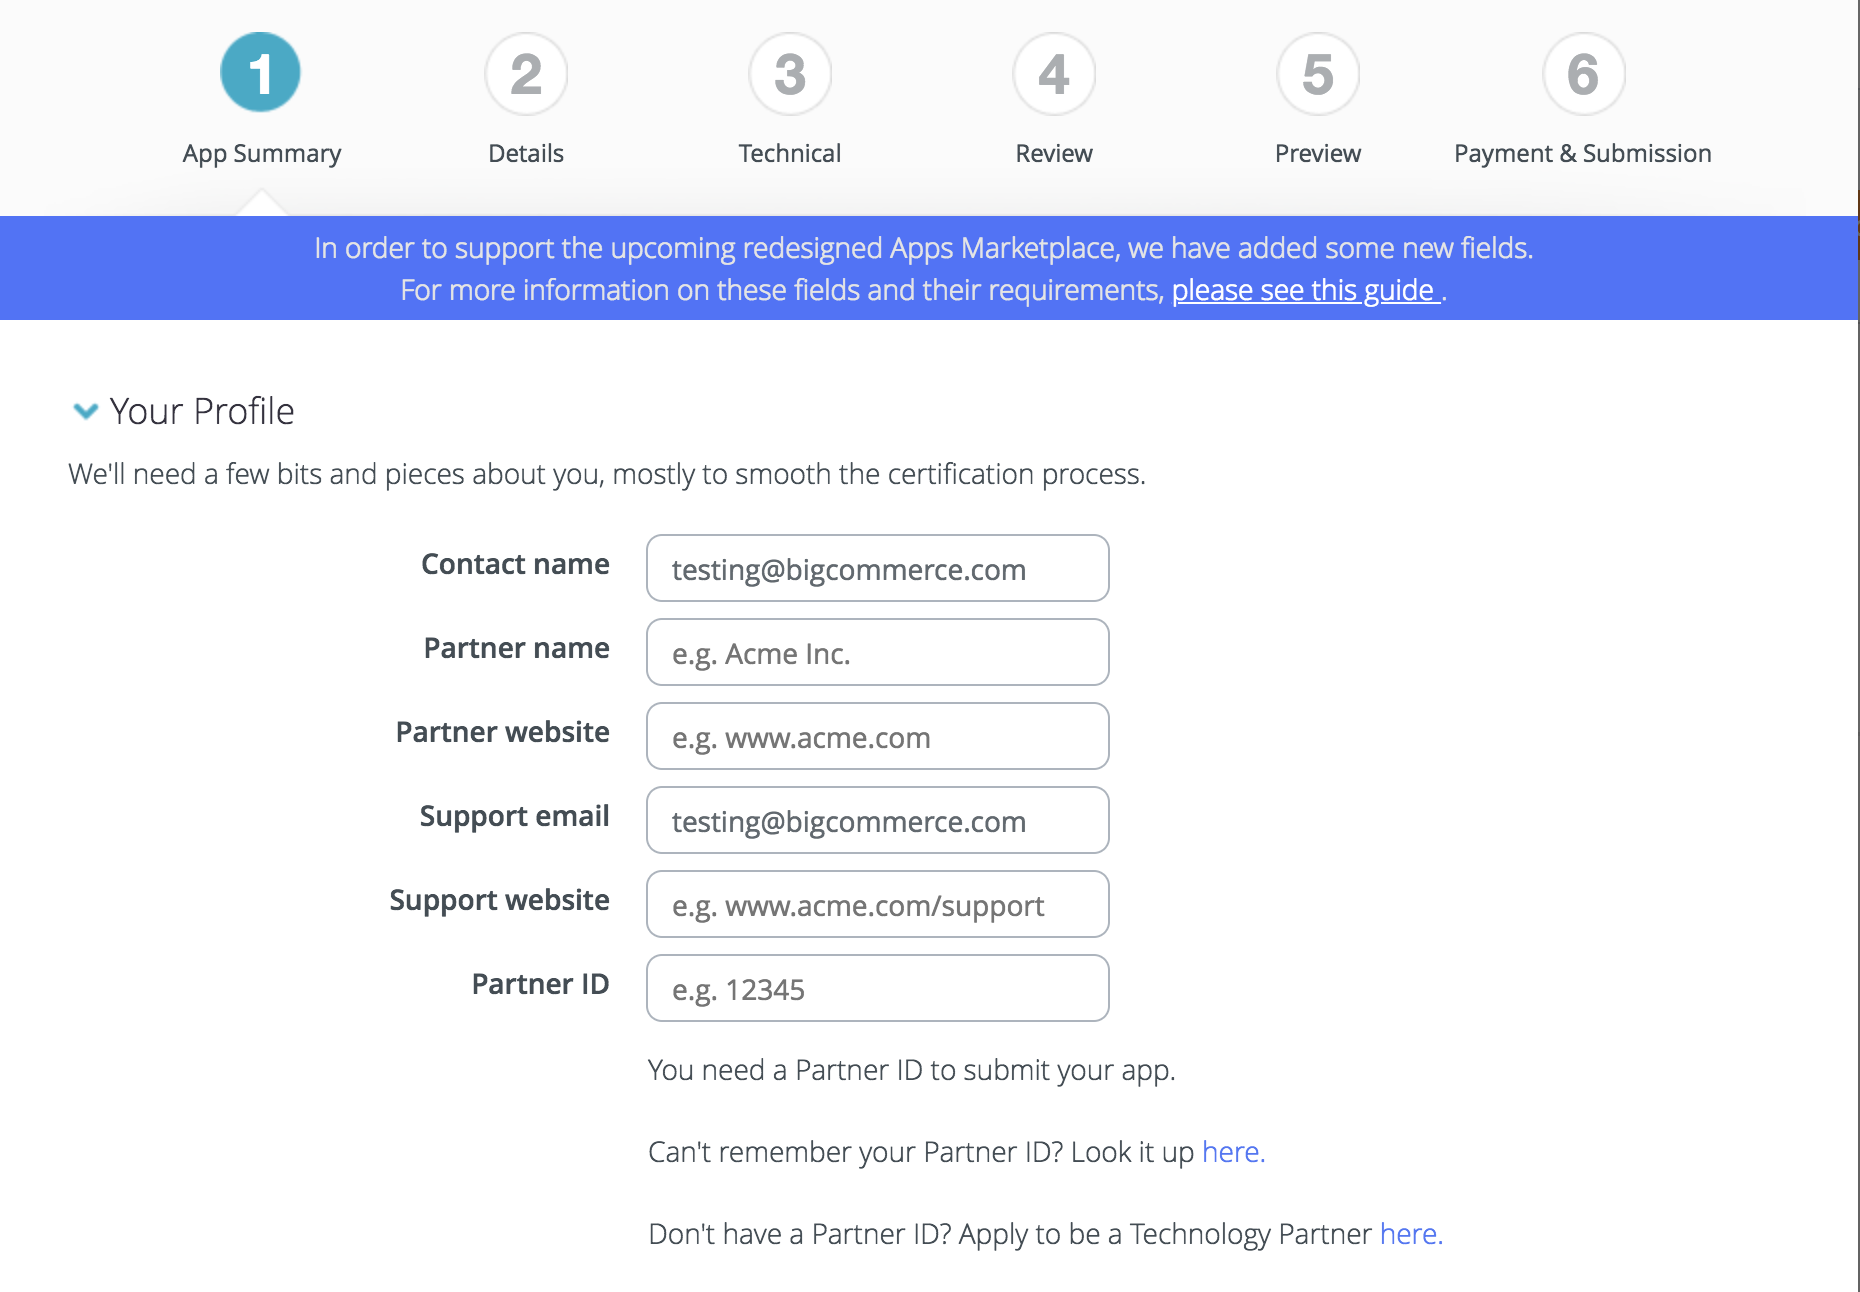
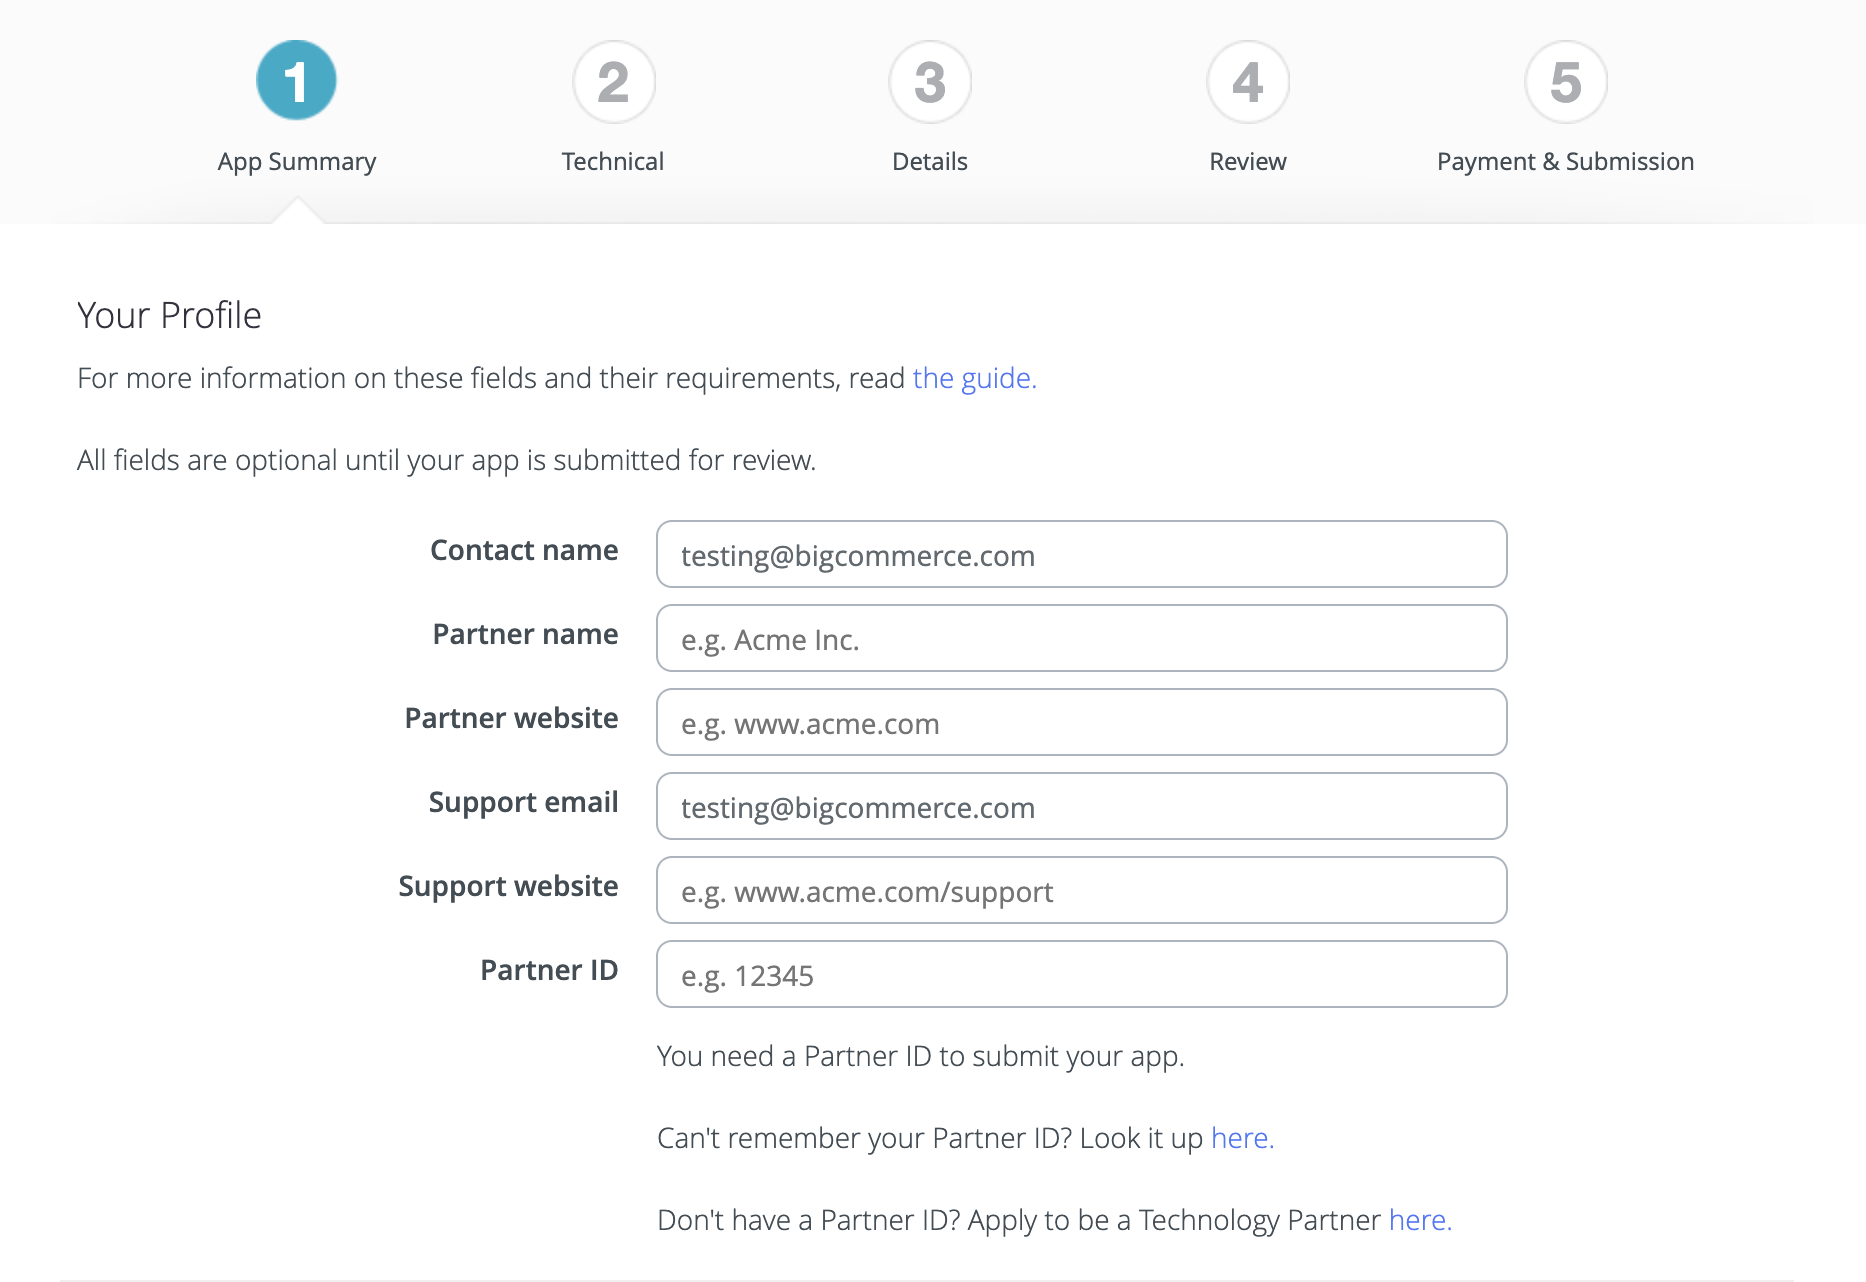
DEVDOCS-2755: Update images (#1073)
* Updated image url

* Replaced images and removed Preview step

diff --git a/docs/api-docs/apps/guide/apps-13-publishing.md b/docs/api-docs/apps/guide/apps-13-publishing.md
@@ -6,10 +6,9 @@
 
 - [Before you begin](#before-you-begin)
 - [Provide a summary](#provide-a-summary)
-- [Fill in details](#fill-in-details)
 - [Add technical information](#add-technical-information)
+- [Fill in details](#fill-in-details)
 - [Review submission](#review-submission)
-- [Preview the listing](#preview-the-listing)
 - [Submit your app for approval](#submit-your-app-for-approval)
 - [FAQ](#faq)
 - [Next steps](#next-steps)
@@ -57,27 +56,11 @@ To begin the app certification process, we'll need some basic information about 
 | App Summary     | App tagline used in the marketplace category and search results; 128 character max                     |
 | Category        | Marketplace category for app; used as search attribute; BigCommerce may re-categorize prior to launch  |
 
-## Fill in details
-
-Provide a helpful description with screenshots and a video to promote your app. We recommend bullet points followed by short paragraphs with headers. Aim for 200 words in total.
-
-![DevTools 02](https://raw.githubusercontent.com/bigcommerce/dev-docs/master/assets/images/devtools-tutorial-02.png  "DevTools 02")
-
-| Field                  | Description                                                                |
-| ---------------------- | -------------------------------------------------------------------------- |
-| Multiple Users         | Optionally allow your app to be accessible to store users other than owner |
-| App Type               | Type of app; single-Click recommended                                      |
-| Auth Callback URL      | Requested when `install` clicked                                           |
-| Load Callback URL      | Requested when user launches app                                           |
-| Uninstall Callback URL | Requested when store owner clicks uninstall                                |
-| OAuth Scopes           | OAuth scopes the app requires                                              |
-| Test Instructions      | Instructions needed to test the app thoroughly                             |
-
 ## Add technical information
 
 Specify app type, multiple users support, callback URLs, and OAuth scopes; and, provide detailed testing instructions.
 
-![DevTools 03](https://raw.githubusercontent.com/bigcommerce/dev-docs/master/assets/images/devtools-tutorial-03.png  "DevTools 03")
+![DevTools 02](https://raw.githubusercontent.com/bigcommerce/dev-docs/master/assets/images/devtools-tutorial-02.png  "DevTools 02")
 
 | Field                      | Description                                                                                                                        |
 | -------------------------- | ----------------------------------------------------------------------------------------------------------------------------------         |
@@ -91,23 +74,33 @@ Specify app type, multiple users support, callback URLs, and OAuth scopes; and, 
 | App Screenshot             | Screenshots of app UI inside BigCommerce                                                                                                   |
 | Alternate Logo             | Used if app featured in Marketplace carousel; should be 259 x 158px (or larger at ratio); dark background and light branding; no taglines  |
 
+## Fill in details
+
+Provide a helpful description with screenshots and a video to promote your app. We recommend bullet points followed by short paragraphs with headers. Aim for 200 words in total.
+
+![DevTools 03](https://raw.githubusercontent.com/bigcommerce/dev-docs/master/assets/images/devtools-tutorial-03.png  "DevTools 03")
+
+| Field                  | Description                                                                |
+| ---------------------- | -------------------------------------------------------------------------- |
+| Multiple Users         | Optionally allow your app to be accessible to store users other than owner |
+| App Type               | Type of app; single-Click recommended                                      |
+| Auth Callback URL      | Requested when `install` clicked                                           |
+| Load Callback URL      | Requested when user launches app                                           |
+| Uninstall Callback URL | Requested when store owner clicks uninstall                                |
+| OAuth Scopes           | OAuth scopes the app requires                                              |
+| Test Instructions      | Instructions needed to test the app thoroughly                             |
+
 ## Review submission
 
 Review the information added before submitting the app.
 
 ![DevTools 04](https://raw.githubusercontent.com/bigcommerce/dev-docs/master/assets/images/devtools-tutorial-04.png  "DevTools 04")
 
-## Preview the listing
-
-This is an approximation of what the app's page will look like in the Apps Marketplace.
-
-![DevTools 05](https://raw.githubusercontent.com/bigcommerce/dev-docs/master/assets/images/devtools-tutorial-05.png  "DevTools 05")
-
 ## Submit your app for approval
 
 Ensure all information is complete; test the app before submitting for review.
 
-![DevTools 06](https://raw.githubusercontent.com/bigcommerce/dev-docs/master/assets/images/devtools-tutorial-06.png "DevTools 06")
+![DevTools 05](https://raw.githubusercontent.com/bigcommerce/dev-docs/master/assets/images/devtools-tutorial-05.png "DevTools 05")
 
 If you have any questions about your submission, email [appstore@bigcommerce.com](mailto:appstore@bigcommerce.com).
 

diff --git a/docs/api-docs/apps/guide/apps-04-devloper-portal.md b/docs/api-docs/apps/guide/apps-04-devloper-portal.md
@@ -78,7 +78,7 @@ Edit an app by clicking **Edit App**.
 
 Click **Edit App**, then navigate to the technical tab to edit enabled features, callback URLs, and OAuth scopes.
 
-![Techical Details](https://storage.googleapis.com/bigcommerce-production-dev-center/images/apps-04-developer-portal-03.png "Technical Details")
+![Technical Details](https://storage.googleapis.com/bigcommerce-production-dev-center/images/apps-04-developer-portal-04.png "Technical Details")
 
 [Learn more about completing registration fields and submitting apps for approval](https://developer.bigcommerce.com/api-docs/apps/guide/publishing).
 
